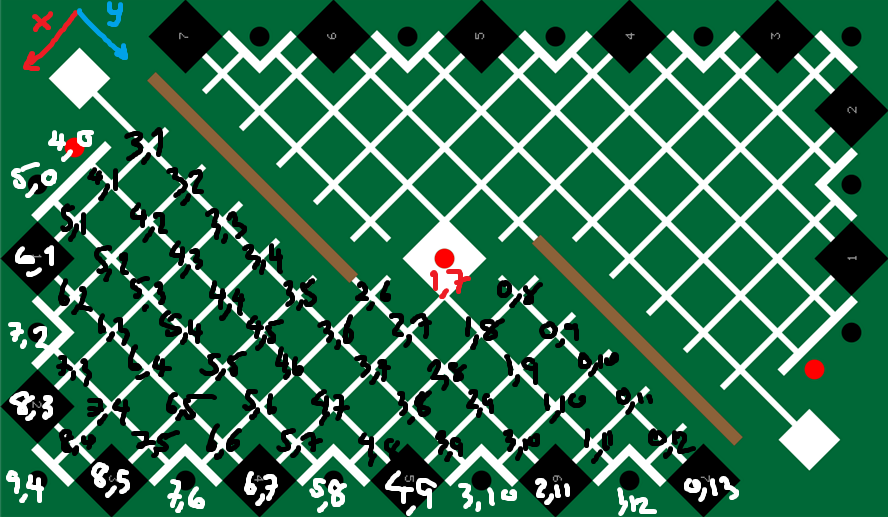
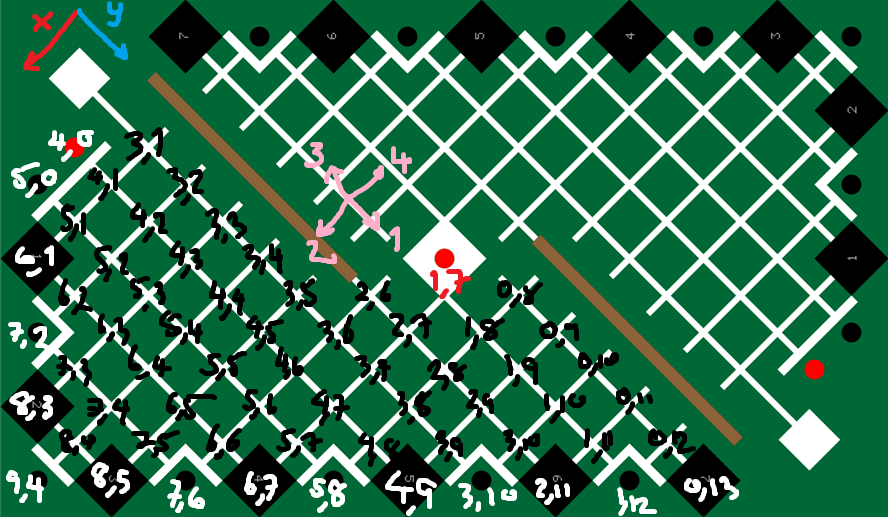
Notation Stuff

Changed region(s): [[0.3341, 0.2785, 0.4556, 0.5261], [0.4252, 0.2785, 0.4859, 0.3404]]

diff --git a/main.py b/main.py
@@ -92,10 +92,10 @@ def astar(maze, start, end):
             child.h = abs(child.position[0] - end_node.position[0]) + abs(child.position[1] - end_node.position[1])
             try:
                 child.t = ((current_node - current_node.parent) != (child - current_node)) * 10
-                print(child.t, (current_node - current_node.parent), (child - current_node))
+                # print(child.t, (current_node - current_node.parent), (child - current_node))
             except AttributeError:
                 child.t = 0
-            print(child.g, child.h, child.t)
+            # print(child.g, child.h, child.t)
             child.f = child.g + child.h + child.t
 
             # Child is already in the open list
@@ -107,8 +107,29 @@ def astar(maze, start, end):
             open_list.append(child)
 
 
-def main():
+def get_path_str(path_list):
+    directions = [[0, 1], [1, 0], [0, -1], [-1, 0]]
+    direction_string = ''
+    direction = list(map(lambda x: x[1] - x[0], zip(path_list[0], path_list[1])))
+    direction_index = directions.index(direction)
+    direction_string += str(direction_index)
+    delta_path = [list(map(lambda x: x[1] - x[0], zip(path_list[i], path_list[i+1]))) for i in range(len(path_list)-1)]
+    for i in delta_path:
+        if i == direction:
+            direction_string += 'f'
+        elif i == directions[direction_index-1]:
+            direction_string += 'lf'
+            direction_index = direction_index - 1 if (direction_index - 1) < 0 else 3
+            direction = directions[direction_index]
+        else:
+            direction_string += 'rf'
+            direction_index = direction_index + 1 if (direction_index - 1) > 4 else 0
+            direction = directions[direction_index]
+    return direction_string
 
+
+
+def main():
     maze = [
         [1, 1, 1, 1, 1, 1, 1, 1, 0, 0, 0, 0, 0],
         [1, 1, 1, 1, 1, 1, 1, 1, 0, 0, 0, 0, 1],
@@ -122,11 +143,25 @@ def main():
         [1, 1, 1, 1, 1, 1, 1, 1, 1, 1, 1, 1, 1]
     ]
 
-    start = (3, 1)
-    end = (0, 12)
-
-    path = astar(maze, start, end)
-    print(path)
+    start_points = [
+        (3, 1), (5, 1), (6, 2), (7, 3), (8, 4), (7, 5),
+        (6, 6), (5, 7), (4, 8), (3, 9), (2, 10), (1, 11), (0, 12)
+    ]
+    end_points = [
+        (5, 1), (6, 2), (7, 3), (8, 4), (7, 5),
+        (6, 6), (5, 7), (4, 8), (3, 9), (2, 10), (1, 11), (0, 12)
+    ]
+    print('{', end='')
+    for start in start_points:
+        for end in end_points:
+            try:
+                print('{', end='')
+                path = astar(maze, start, end)
+                print(start[0], start[1], end[0], end[1], sep=',', end='')
+                # print(start, end)
+                print(',"' + get_path_str(path) + '"', end='},')
+            except IndexError:
+                print(' ')
 
 
 if __name__ == '__main__':

diff --git a/README.md b/README.md
@@ -14,3 +14,6 @@ Which adds a cost `k` (this case is `10`), If the direction changes.
 
 And change `h(n)` from Euclidean Distance to Manhattan Distance
 ![Dist](https://uploads-cdn.omnicalculator.com/images/manhattan_distance.png?width=748&enlarge=0&format=webp)
+
+## Notation
+![Write](temp.png)
